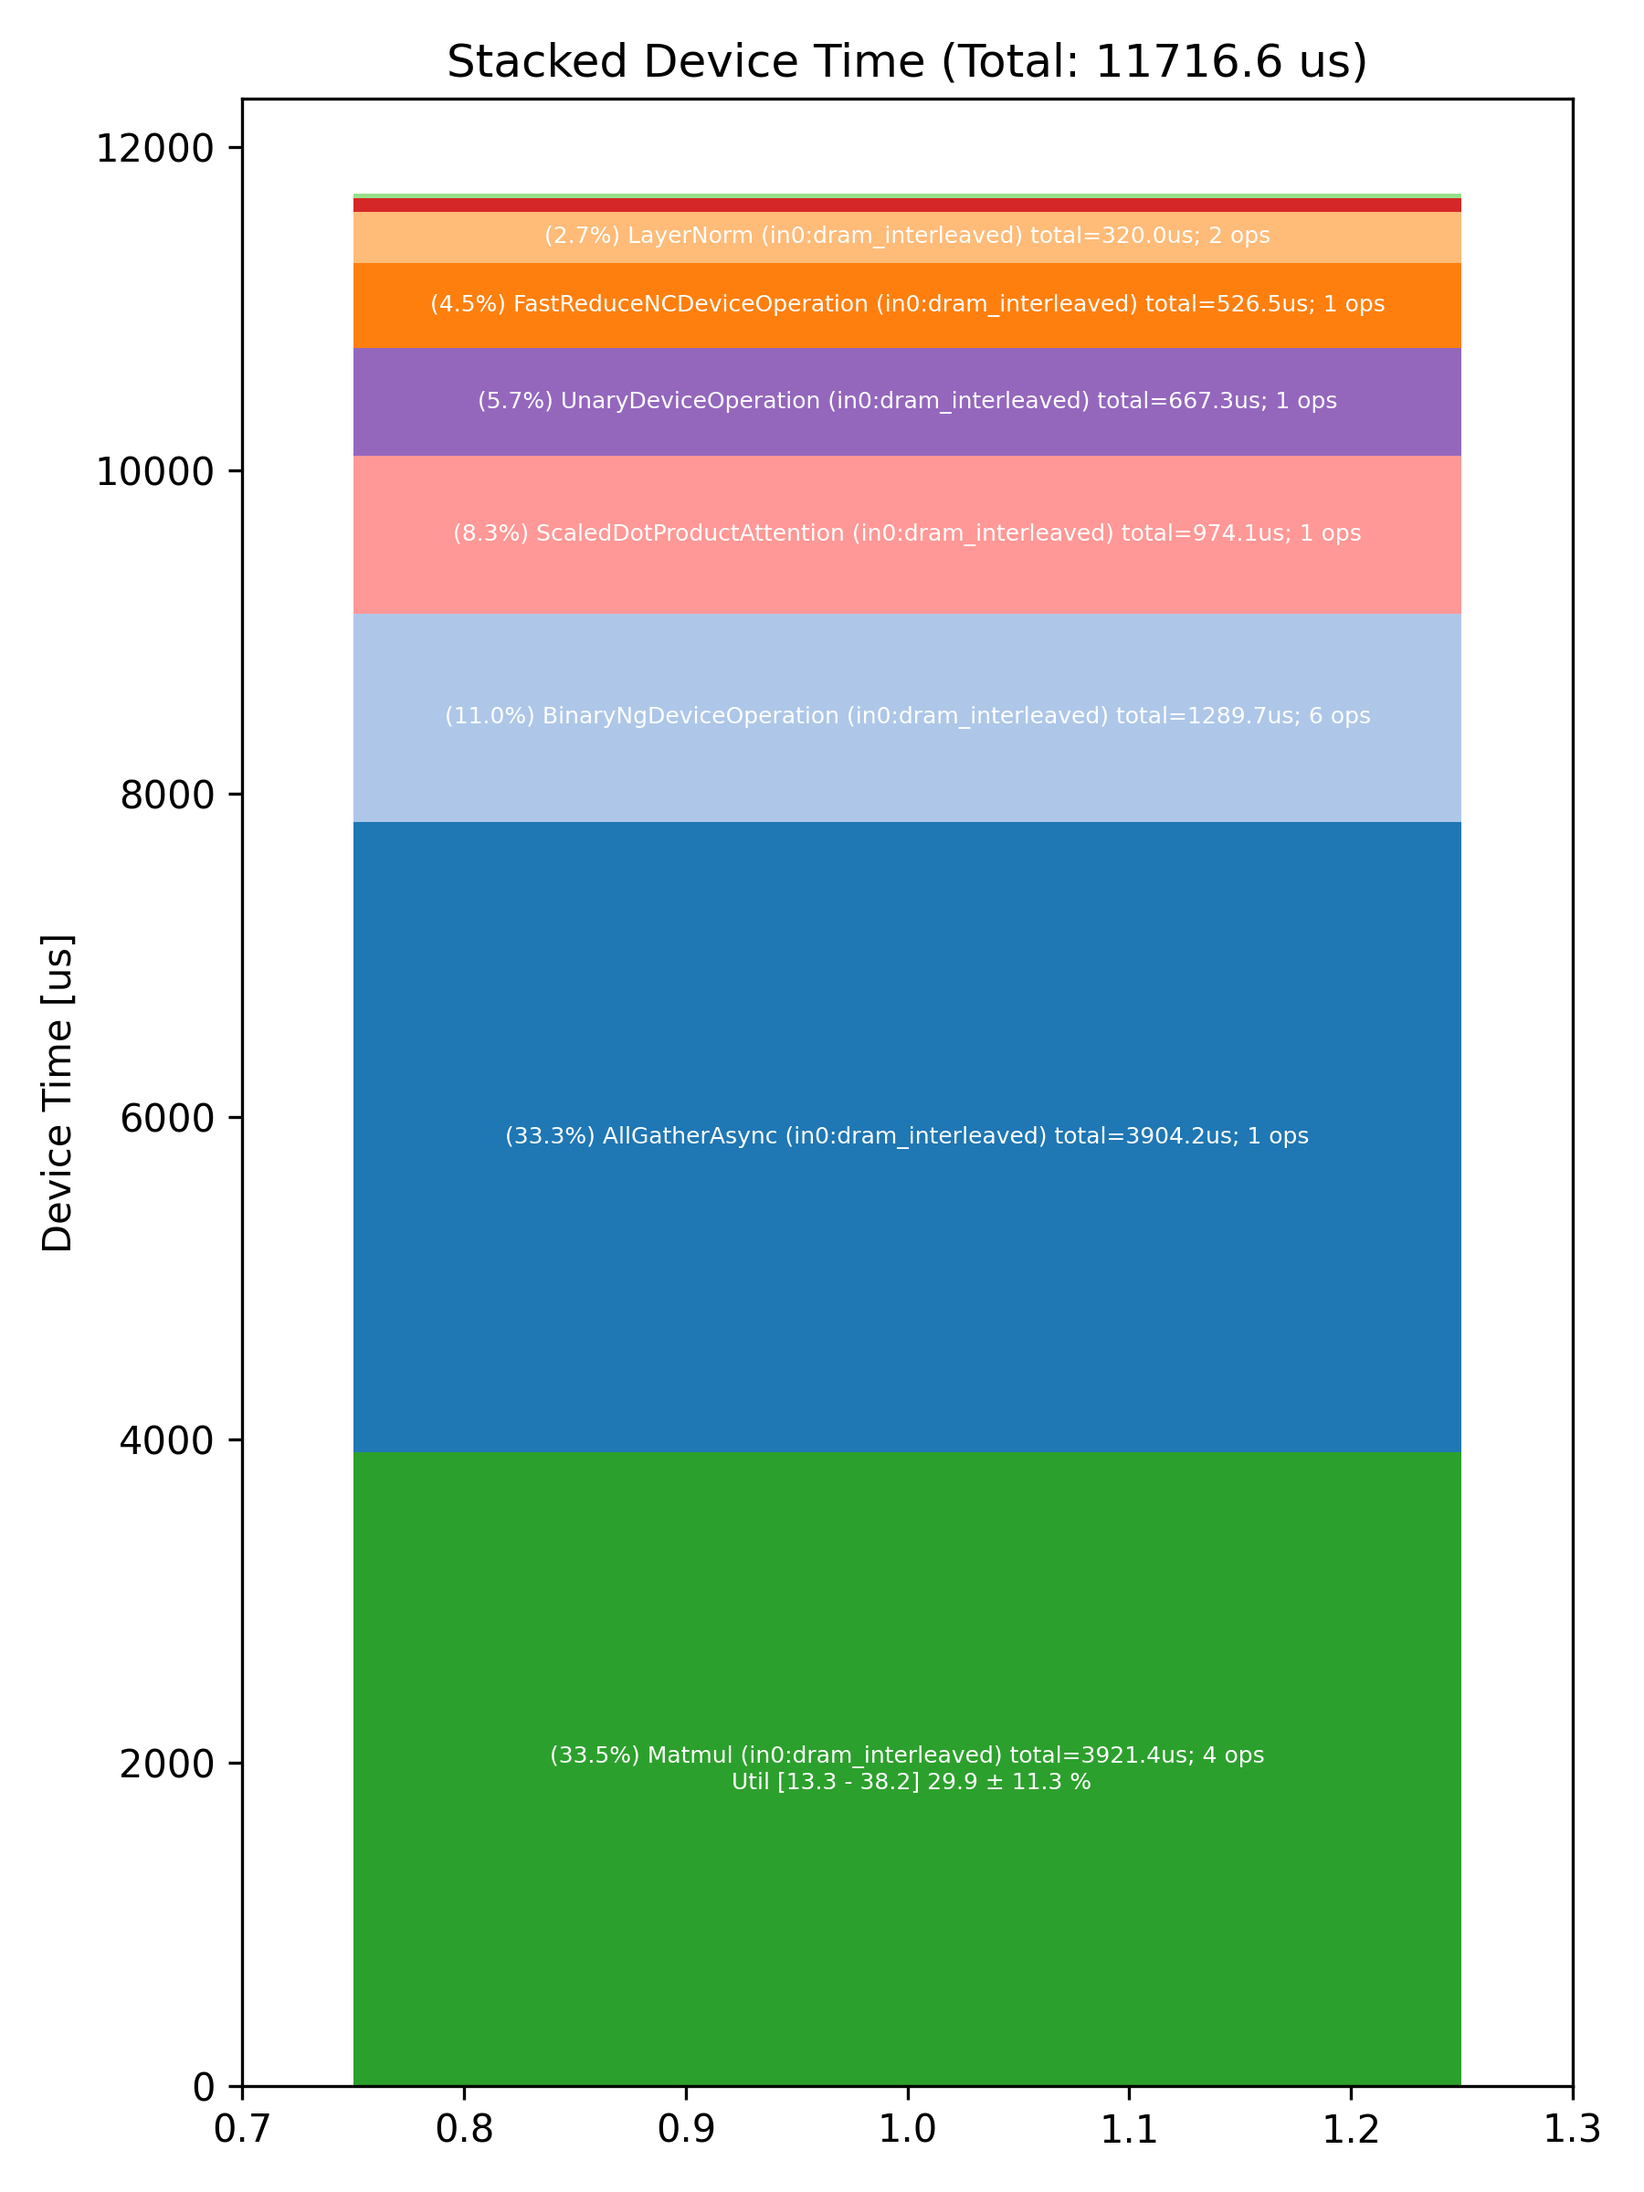
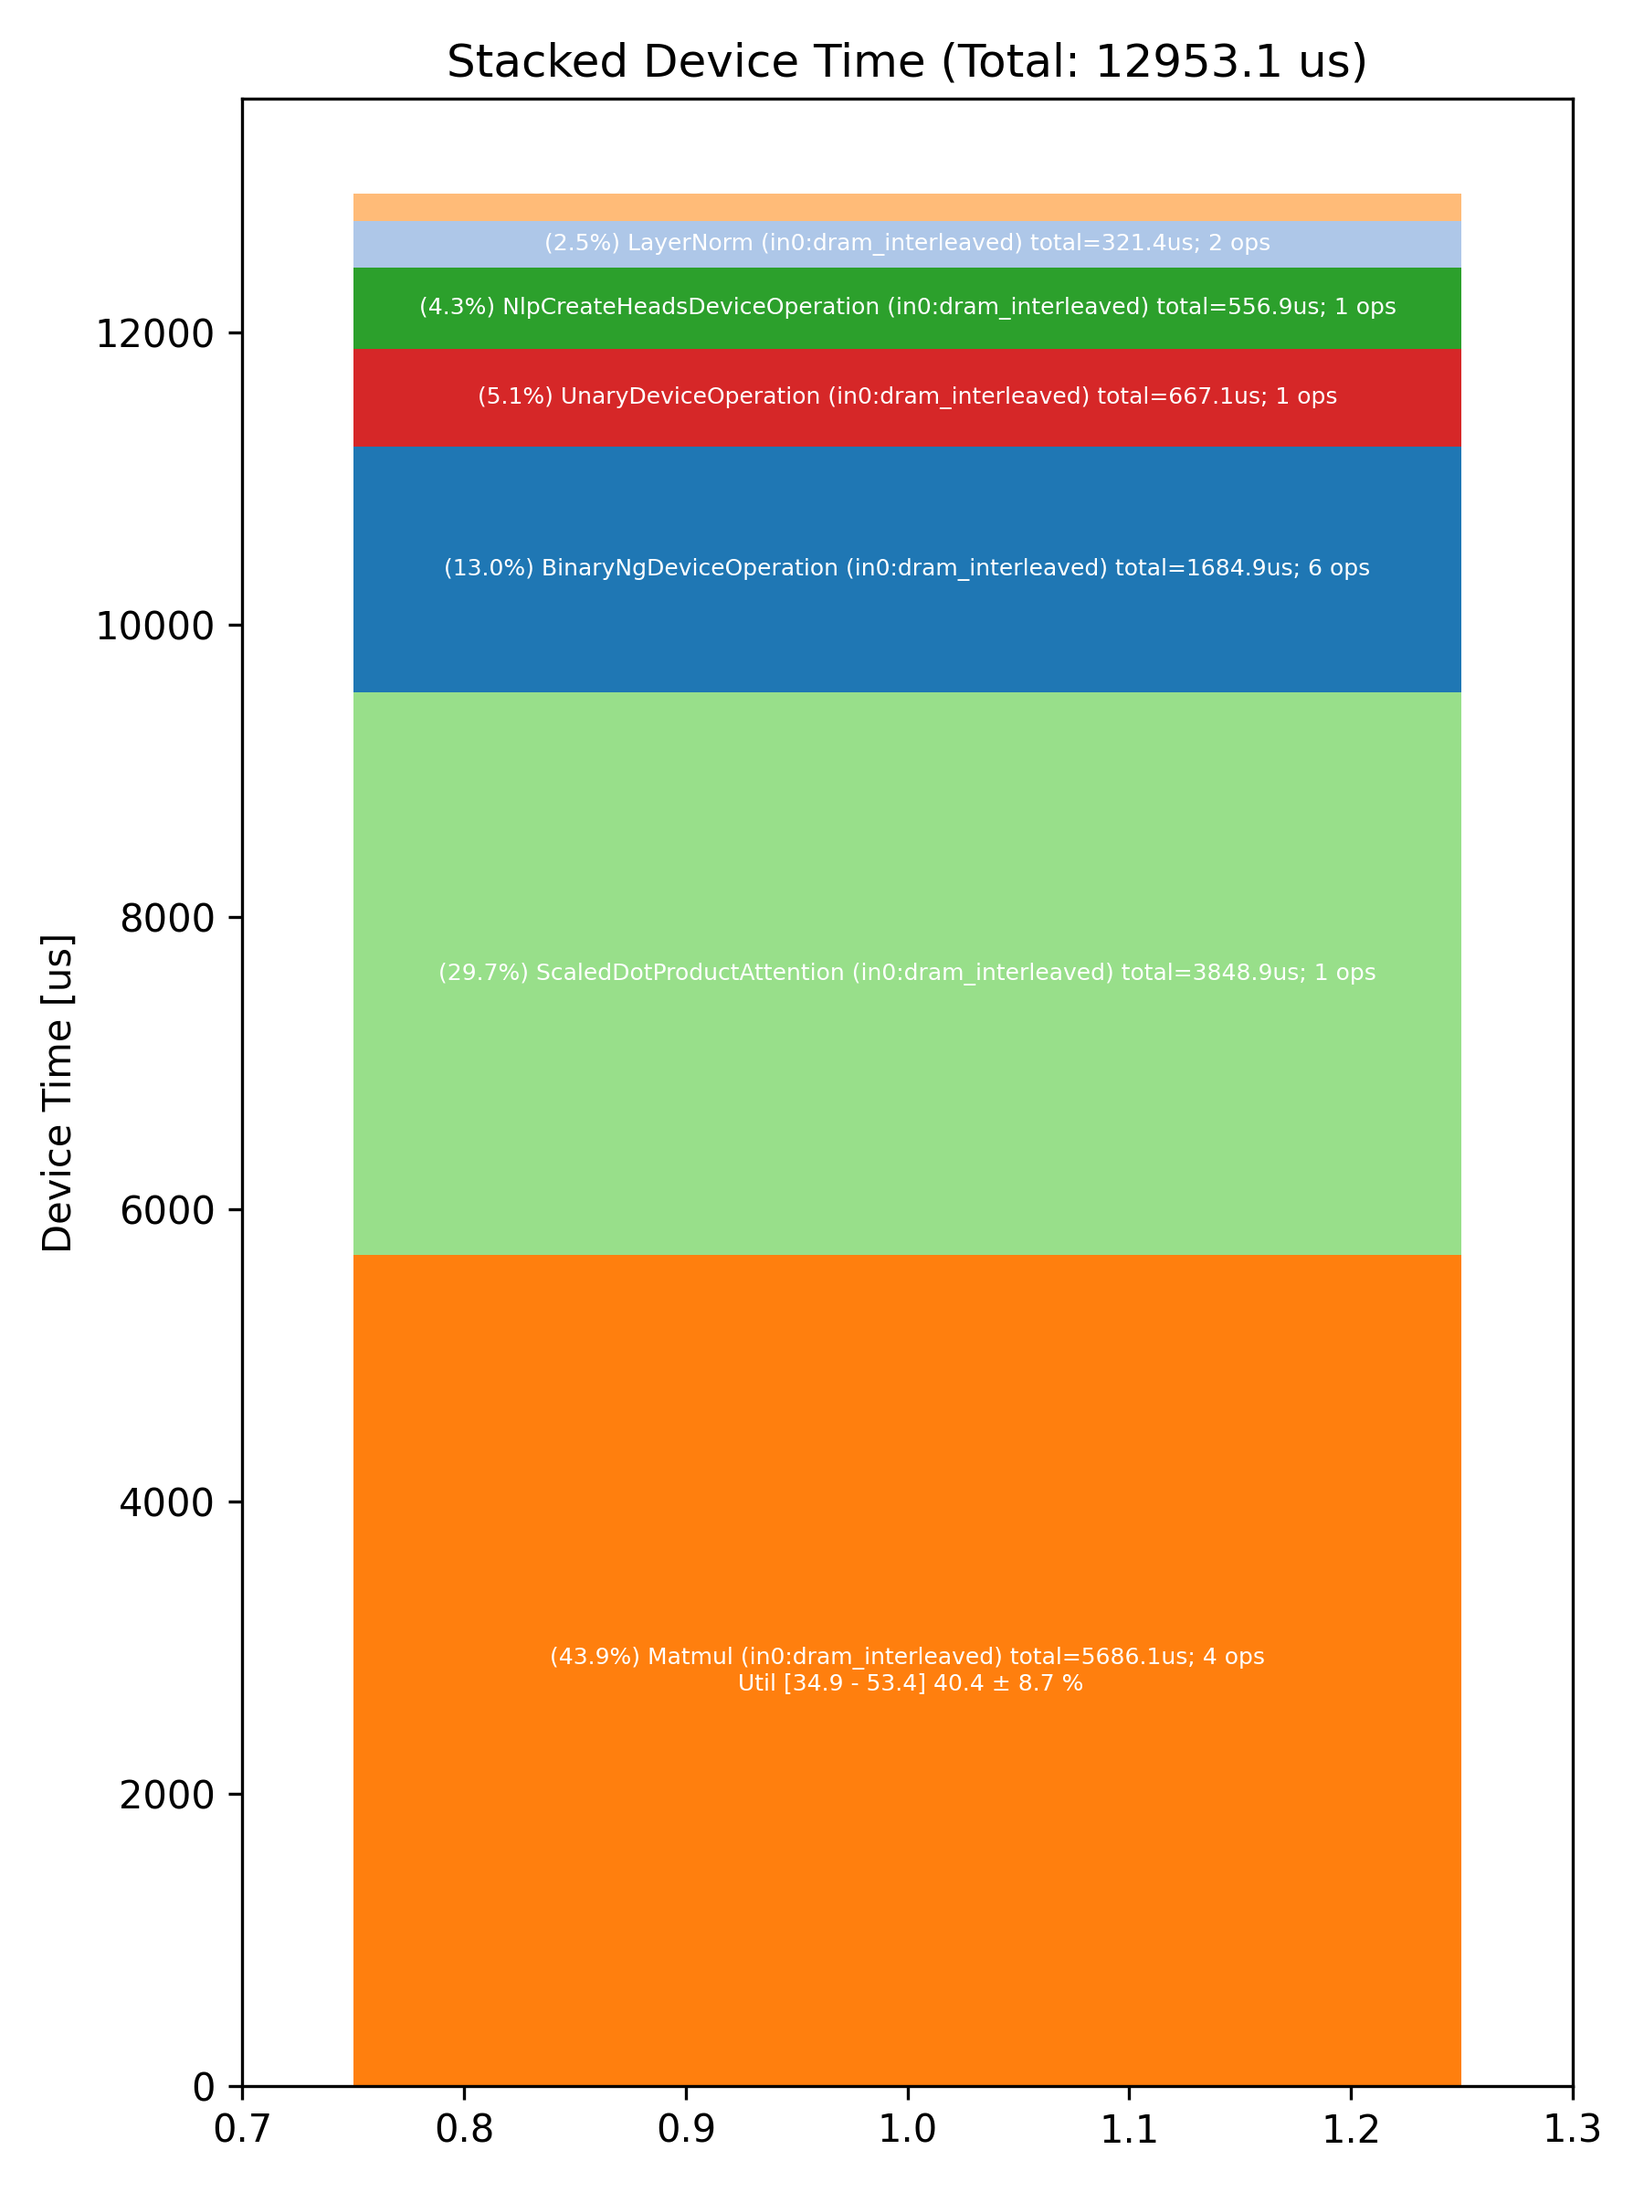
only 1. You can swap MESH_DEVICE to devices and get max() time or 1 time

diff --git a/models/demos/gemma3/tt/gemma_image_attention.py b/models/demos/gemma3/tt/gemma_image_attention.py
@@ -32,15 +32,15 @@ class TtGemmaImageAttention(LightweightModule):
         self.state_dict = state_dict
         self.mesh_device = mesh_device
         self.tt_ccl = tt_ccl
-        self.num_devices = configuration.num_devices
+        self.num_devices = 1
 
         self.hidden_size = configuration.vision_dim
         self.n_heads = configuration.vision_attn_n_heads
         self.head_dim = self.hidden_size // self.n_heads
         self.n_kv_heads = self.n_heads
 
-        self.n_local_heads = self.n_heads // configuration.num_devices
-        self.n_local_kv_heads = self.n_kv_heads // configuration.num_devices
+        self.n_local_heads = self.n_heads // self.num_devices
+        self.n_local_kv_heads = self.n_kv_heads // self.num_devices
 
         self.dtype = dtype
 
@@ -64,8 +64,8 @@ class TtGemmaImageAttention(LightweightModule):
         wo_str = f"{state_dict_prefix}wo.weight"
 
         # when splitting the devices, we need to make sure that the number of heads is divisible by the number of devices
-        assert self.n_heads % configuration.num_devices == 0
-        assert self.n_kv_heads % configuration.num_devices == 0
+        assert self.n_heads % self.num_devices == 0
+        assert self.n_kv_heads % self.num_devices == 0
 
         # Pad head_dim to multiple of 32
         def pad_head_dim(weight, heads_out=True):
@@ -92,7 +92,7 @@ class TtGemmaImageAttention(LightweightModule):
         wo_padded = pad_head_dim(self.state_dict[wo_str], heads_out=False)
 
         wq_chunked, wk_chunked, wv_chunked = (
-            torch.chunk(w, configuration.num_devices) for w in [wq_padded, wk_padded, wv_padded]
+            torch.chunk(w, self.num_devices) for w in [wq_padded, wk_padded, wv_padded]
         )
 
         self.qkv_program_config = lambda seq_len, MAX_MM_SEQ_LEN: (
@@ -124,16 +124,17 @@ class TtGemmaImageAttention(LightweightModule):
                         ],
                         dim=-1,
                     )
-                    for i in range(configuration.num_devices)
+                    for i in range(self.num_devices)
                 ],
                 dim=-1,
             ),
             device=self.mesh_device,
-            mesh_mapper=ttnn.ShardTensorToMesh(self.mesh_device, dim=-1),
+            # mesh_mapper=ttnn.ShardTensorToMesh(self.mesh_device, dim=-1),
+            mesh_mapper=ttnn.ReplicateTensorToMesh(self.mesh_device),
             dtype=self.dtype,
             memory_config=ttnn.DRAM_MEMORY_CONFIG,
             layout=ttnn.TILE_LAYOUT,
-            cache_file_name=cache_name("wqkv_sharded"),
+            cache_file_name=cache_name("wqkv_replicated"),
         )
 
         bq_str = f"{state_dict_prefix}wq.bias"
@@ -166,7 +167,7 @@ class TtGemmaImageAttention(LightweightModule):
             bv_padded = pad_head_dim_bias(self.state_dict[bv_str])
 
             bq_chunked, bk_chunked, bv_chunked = (
-                torch.chunk(b, configuration.num_devices) for b in [bq_padded, bk_padded, bv_padded]
+                torch.chunk(b, self.num_devices) for b in [bq_padded, bk_padded, bv_padded]
             )
 
             self.bqkv = ttnn.as_tensor(
@@ -180,16 +181,17 @@ class TtGemmaImageAttention(LightweightModule):
                             ],
                             dim=-1,
                         )
-                        for i in range(configuration.num_devices)
+                        for i in range(self.num_devices)
                     ],
                     dim=-1,
                 ),
                 device=self.mesh_device,
-                mesh_mapper=ttnn.ShardTensorToMesh(self.mesh_device, dim=-1),
+                # mesh_mapper=ttnn.ShardTensorToMesh(self.mesh_device, dim=-1),
+                mesh_mapper=ttnn.ReplicateTensorToMesh(self.mesh_device),
                 dtype=self.dtype,
                 memory_config=ttnn.DRAM_MEMORY_CONFIG,
                 layout=ttnn.TILE_LAYOUT,
-                cache_file_name=cache_name("bqkv_sharded"),
+                cache_file_name=cache_name("bqkv_replicated"),
             )
         else:
             self.bqkv = None
@@ -201,11 +203,12 @@ class TtGemmaImageAttention(LightweightModule):
                 -1,
             ),
             device=self.mesh_device,
-            mesh_mapper=ttnn.ShardTensorToMesh(self.mesh_device, dim=-2),
+            # mesh_mapper=ttnn.ShardTensorToMesh(self.mesh_device, dim=-2),
+            mesh_mapper=ttnn.ReplicateTensorToMesh(self.mesh_device),
             memory_config=ttnn.DRAM_MEMORY_CONFIG,
             dtype=self.dtype,
             layout=ttnn.TILE_LAYOUT,
-            cache_file_name=cache_name("wo_sharded"),
+            cache_file_name=cache_name("wo_replicated"),
         )
 
         if bo_str in self.state_dict:
@@ -301,7 +304,8 @@ class TtGemmaImageAttention(LightweightModule):
             output_11SH = ttnn.reshape(output_11SH, [batch_size, 1, seq_len, -1])
         ttnn.deallocate(attn_output_11SH)
 
-        if self.num_devices > 1:
+        if self.num_devices > 1 and False:
+            assert False
             output_all_reduce = _all_reduce_helper(self, output_11SH)
             ttnn.deallocate(output_11SH)
         else:
@@ -317,6 +321,7 @@ class TtGemmaImageAttention(LightweightModule):
 
 
 def _all_reduce_helper(caller, input_tensor):
+    assert False
     w2_out_gathered = ttnn.experimental.all_gather_async(
         input_tensor,
         persistent_output_buffer=None,

diff --git a/models/demos/gemma3/tt/gemma_image_mlp.py b/models/demos/gemma3/tt/gemma_image_mlp.py
@@ -36,7 +36,7 @@ class TtGemmaImageFeedForward(LightweightModule):
         )
         torch_bias = lambda name, suffix: self.state_dict[f"{state_dict_prefix}{name}.{suffix}"]
 
-        if args.dummy_weights:
+        if args.dummy_weights or weight_cache_path is None:
             cache_name = lambda *_: None
         else:
             cache_name = lambda name, suffix: weight_cache_path / (state_dict_prefix + f"{name}.{suffix}")
@@ -112,6 +112,7 @@ class TtGemmaImageFeedForward(LightweightModule):
         DO_ALL_REDUCE = False
         # All reduce
         if self.args.num_devices > 1 and DO_ALL_REDUCE:  # replace with reduce_scatter and all_gather
+            assert False
             w2_out_gathered = ttnn.experimental.all_gather_async(
                 c_proj_out,
                 persistent_output_buffer=None,

diff --git a/models/demos/gemma3/tests/test_vision_attention.py b/models/demos/gemma3/tests/test_vision_attention.py
@@ -48,12 +48,14 @@ def test_attention_inference(batch, num_chunks, mesh_device, reset_seeds):
     head_dim = hidden_size // n_heads
     seq_len = model_args.vision_chunk_ntok
 
+    model_args.num_devices = 1
     tt_model = TtGemmaImageAttention(
         mesh_device=mesh_device,
         tt_ccl=TT_CCL(mesh_device),
         state_dict=state_dict,
         state_dict_prefix=first_layer_prefix,
-        weight_cache_path=model_args.weight_cache_path(dtype),
+        # weight_cache_path=model_args.weight_cache_path(dtype),
+        weight_cache_path=None,
         dtype=dtype,
         configuration=model_args,
     )

diff --git a/models/demos/gemma3/tt/gemma_image_block.py b/models/demos/gemma3/tt/gemma_image_block.py
@@ -34,9 +34,11 @@ class TtGemmaImageTransformerBlock(LightweightModule):
         self.state_dict = state_dict
         self.mesh_device = mesh_device
         self.tt_ccl = tt_ccl
-        self.num_devices = configuration.num_devices
+        self.num_devices = 1
         self.hidden_size = configuration.vision_dim
         self.gated = gated
+
+        weight_cache_path = None
 
         self.ln_1 = TtLayerNorm(
             device=mesh_device,
